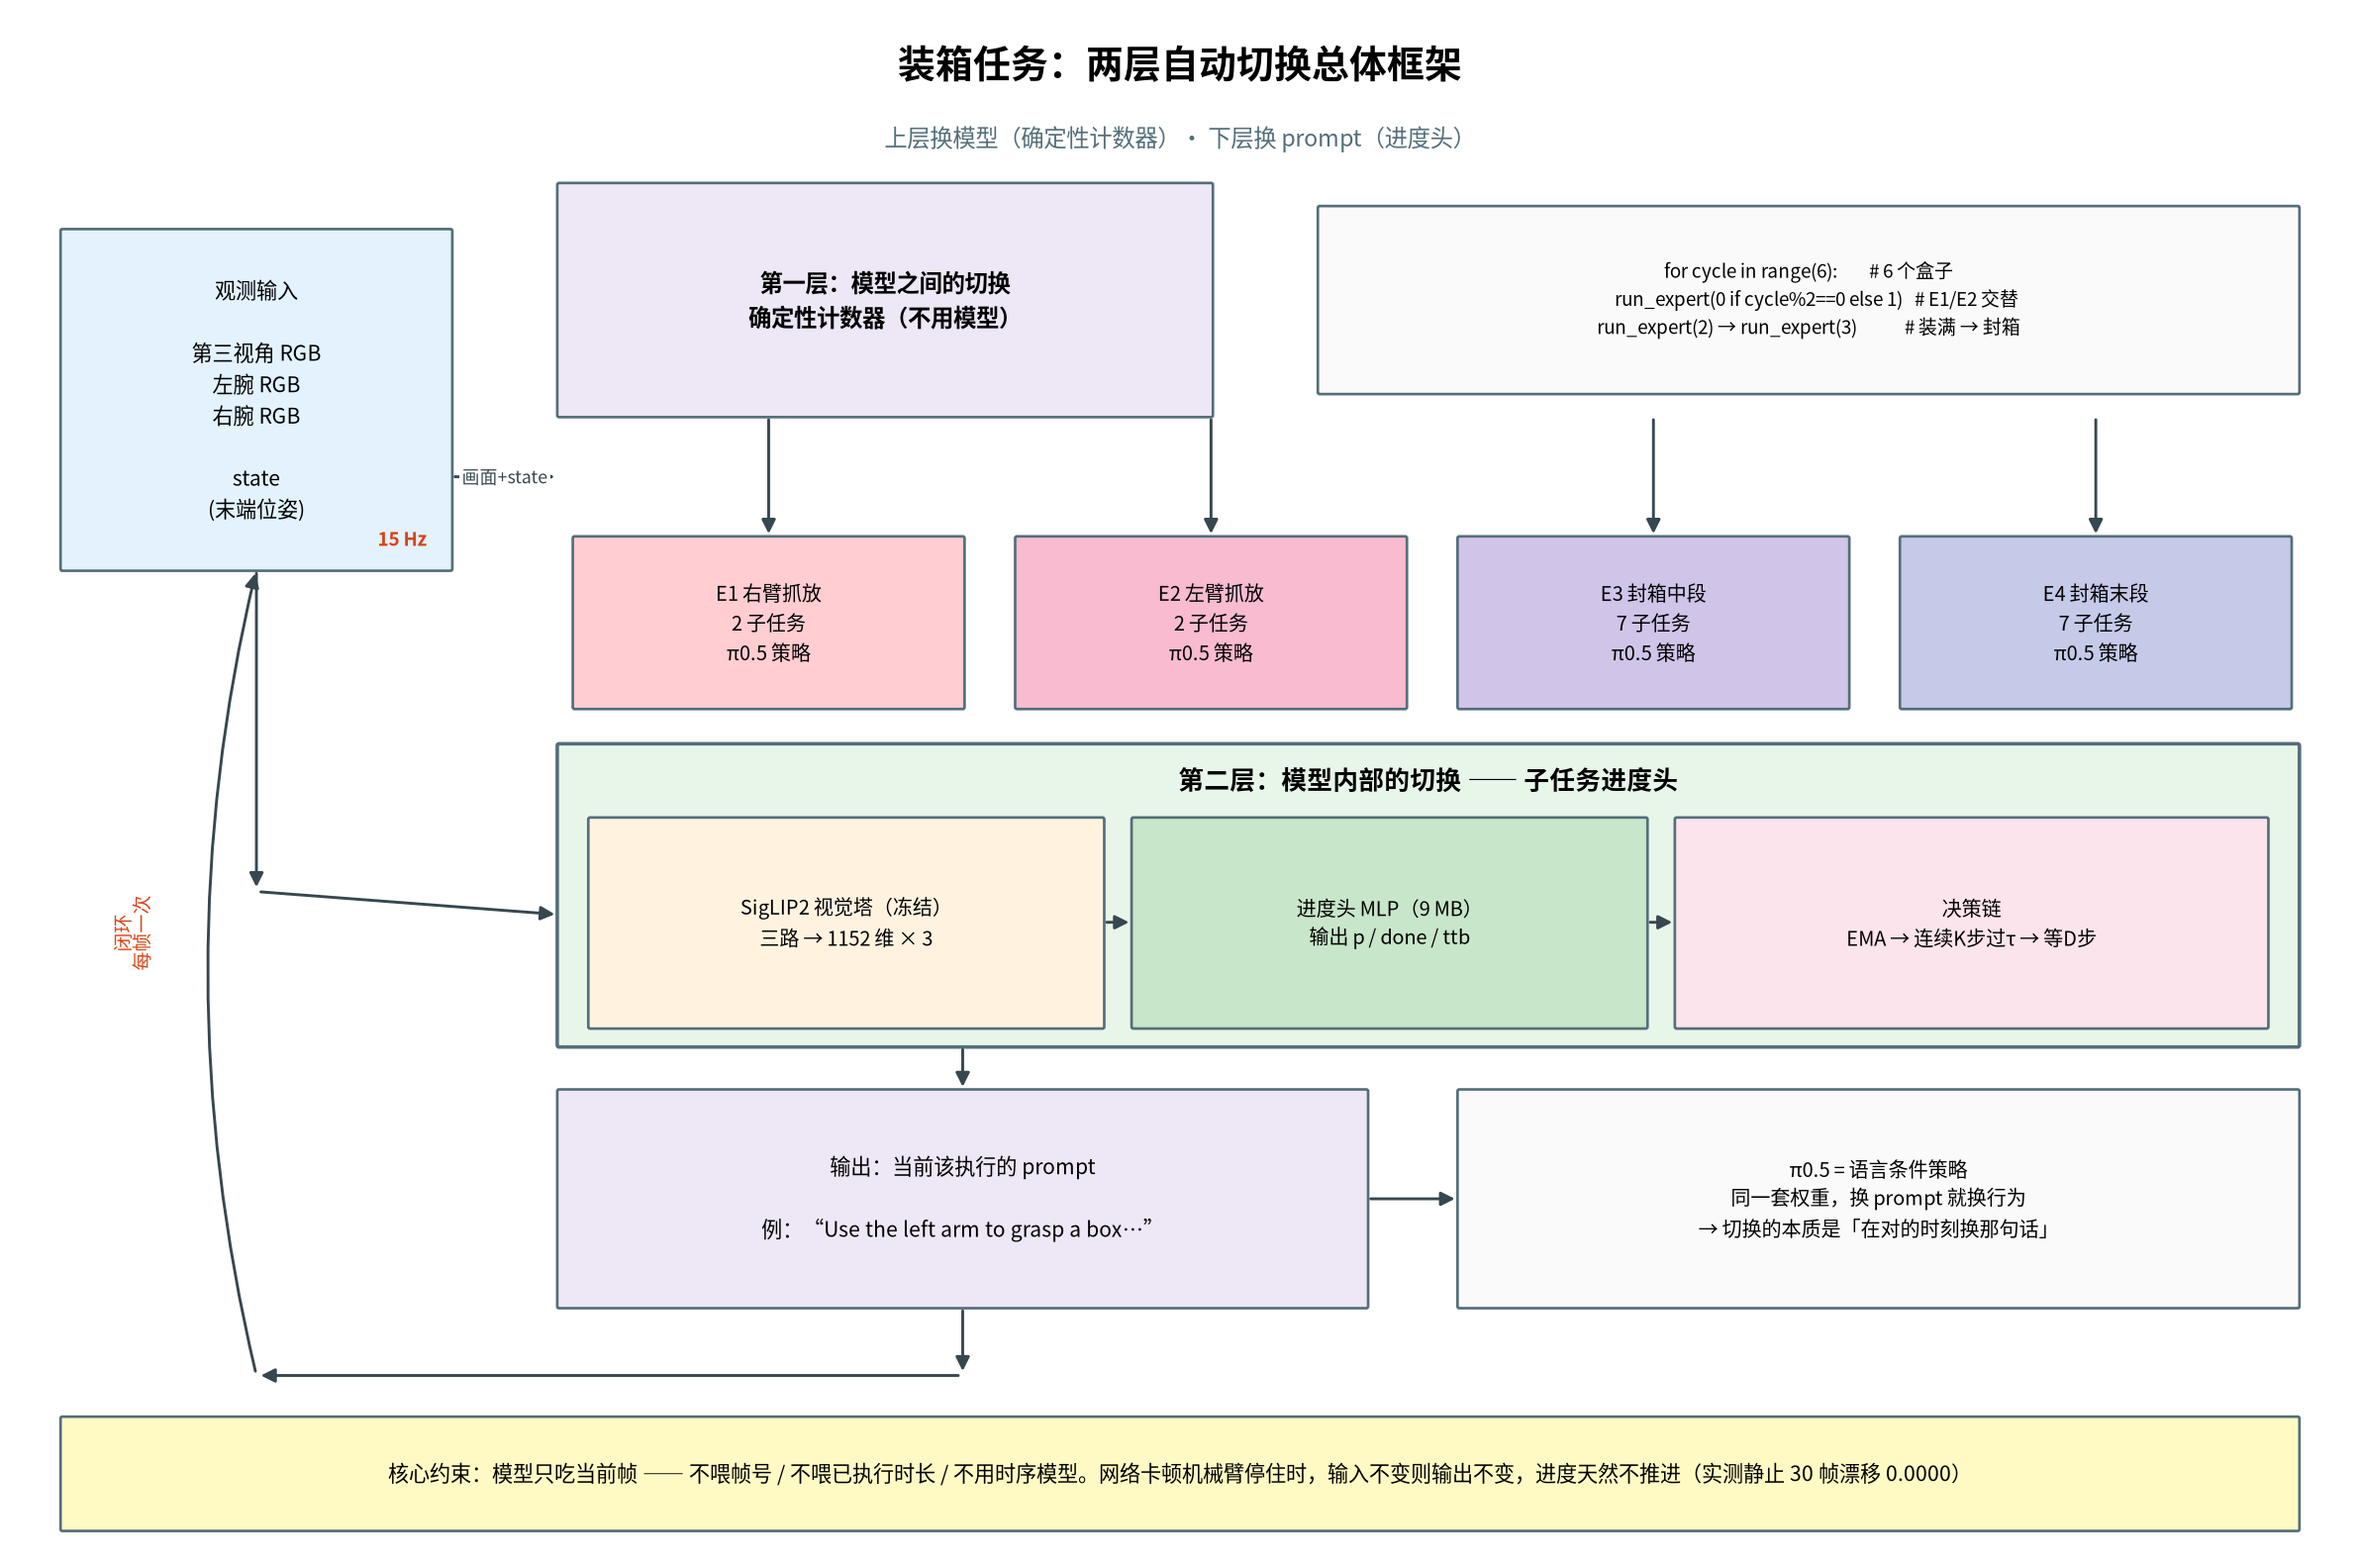
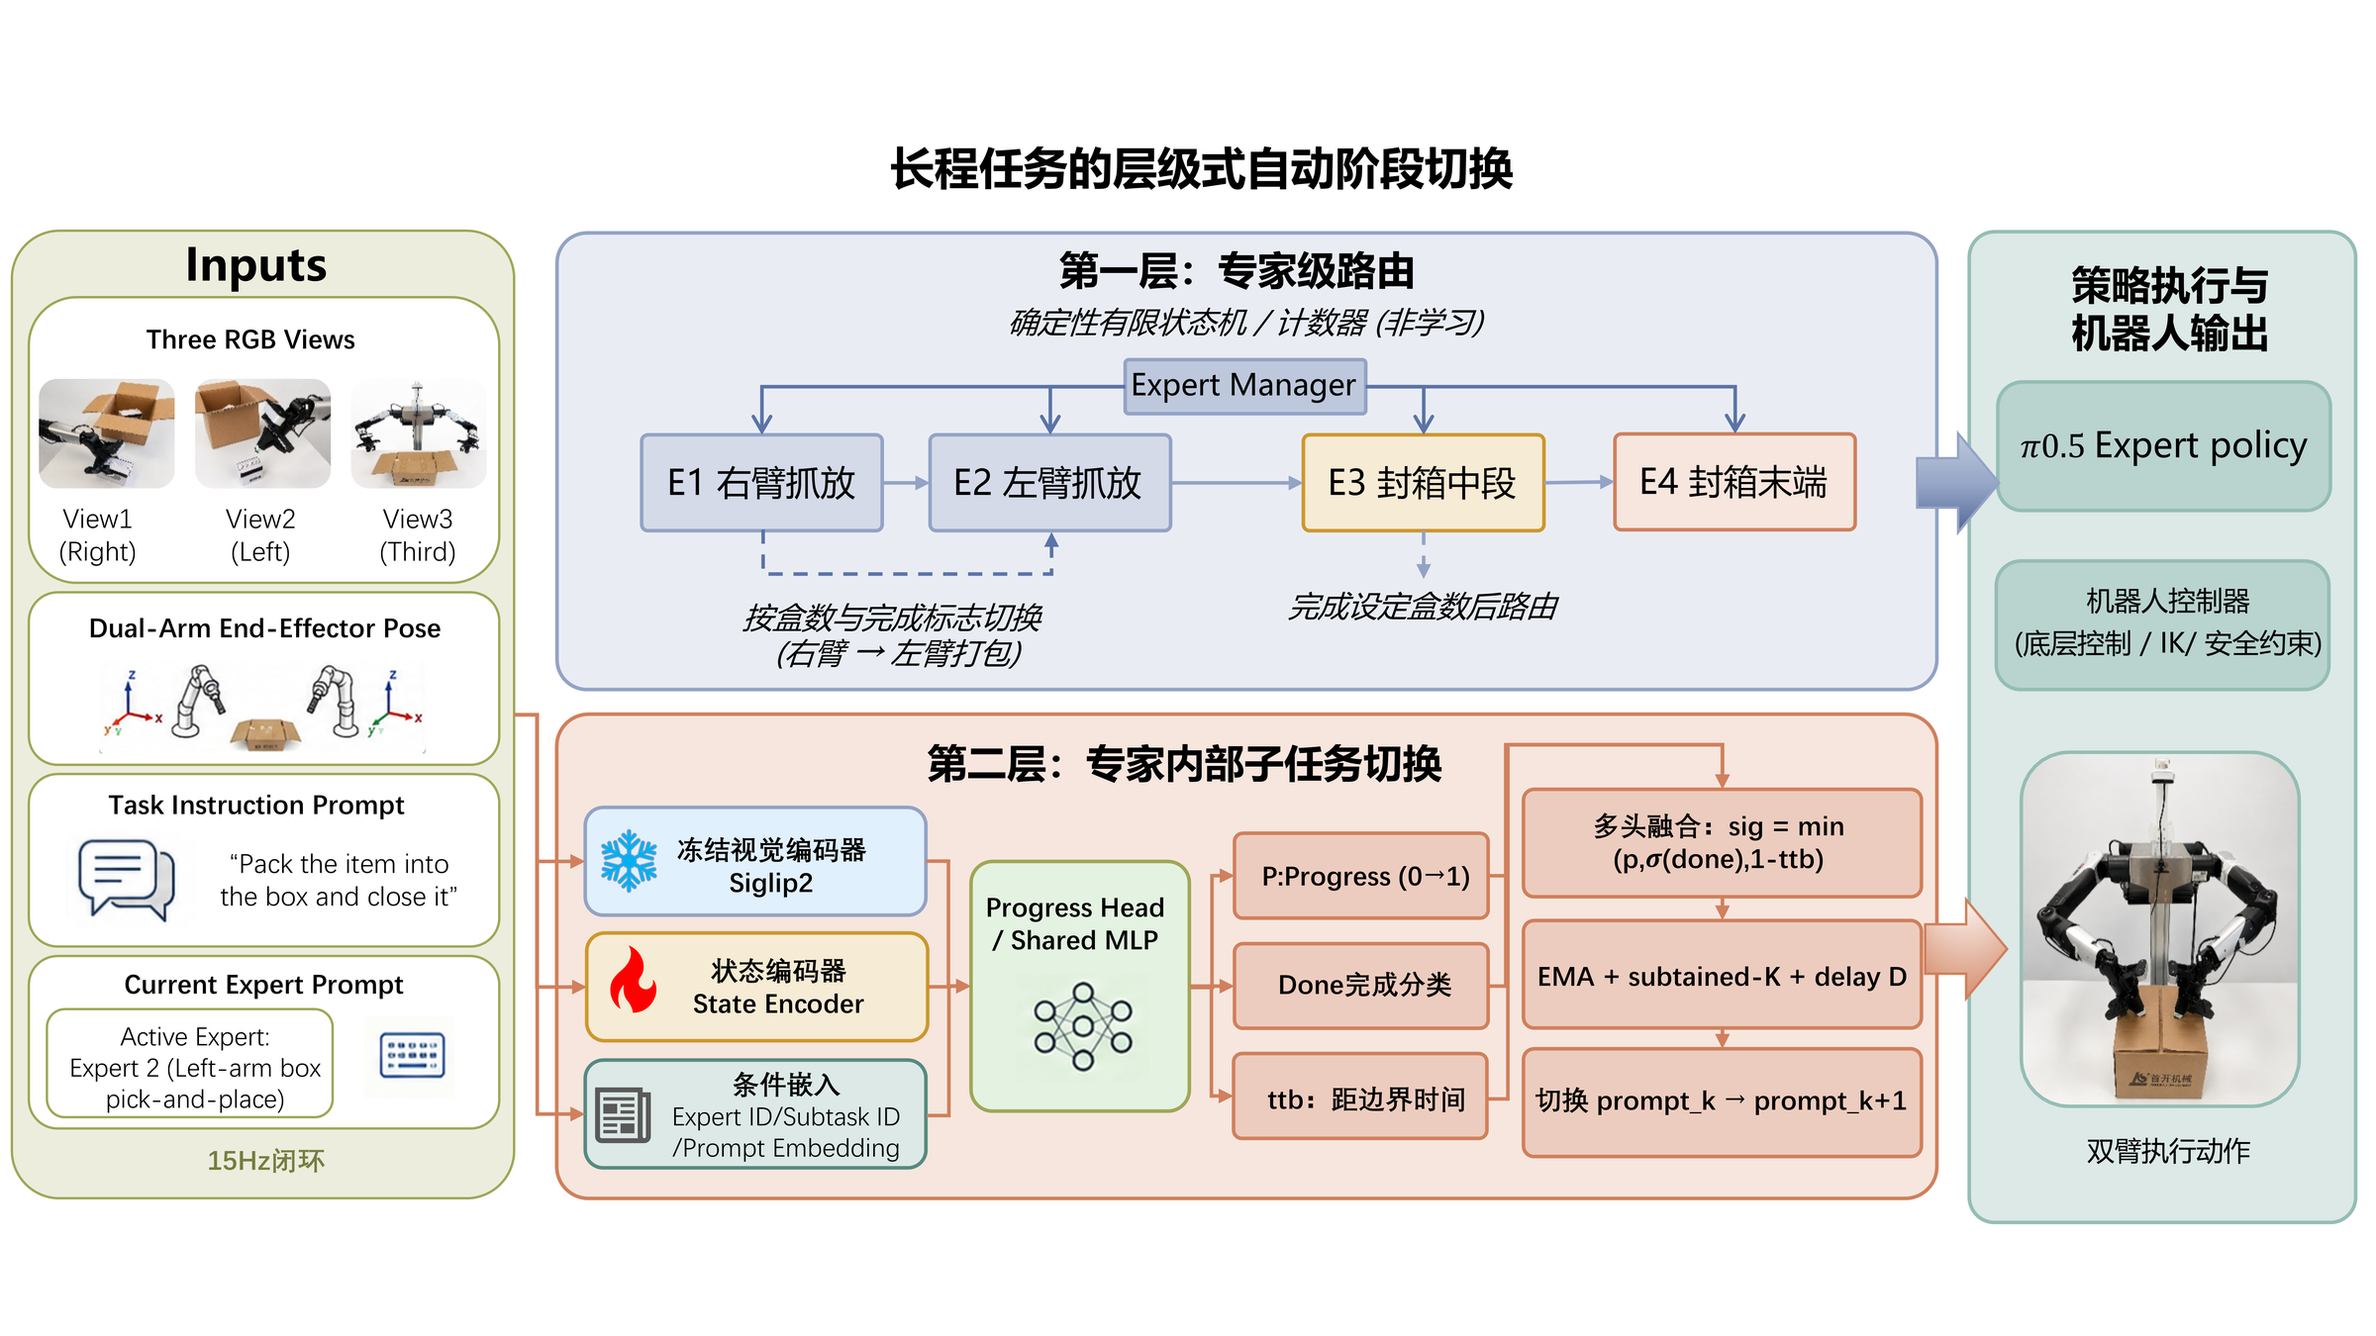
更新配图:换上手绘的框架图与决策链图
- 图 01 换成「长程任务的层级式自动阶段切换」总体框架
- 图 03 换成「自动切换阶段的决策链」
- 删掉原图 02(进度头网络结构)—— 上面两张图里都已包含 MLP 头部分,
  正文改为引用它们,不再单列一张

两张新图从 8000×4500 缩到 2400×1350(3.5MB→0.8MB / 2.2MB→0.7MB),
README 内联加载不至于太慢,点开仍看得清。

diff --git a/figures/README.md b/figures/README.md
@@ -32,7 +32,7 @@
 所以模型**只吃当前帧** —— 不喂帧号、不喂已执行时长、不用任何时序模型。
 卡住时输入不变 → 输出不变 → 进度天然不推进。
 
-📊 **图 01** 总体框架 · **图 02** 进度头结构 · **图 03** 决策链与标定
+📊 **图 01** 总体框架(两层切换) · **图 03** 决策链与标定
 
 ---
 
@@ -249,7 +249,6 @@ E3 集从第 0 帧起就是 100%。
 | 图 | 内容 |
 |---|---|
 | `01_architecture.png` | 输入输出、两层切换、四个专家、闭环 |
-| `02_network.png` | 网络结构、三个输出头、为什么要三个 |
 | `03_decision_chain.png` | 决策链、停滞门控、τ/D/兜底的标定公式 |
 | `04_policy_loss.png` | 三次策略训练的 loss（线性轴 + 对数轴） |
 | `05_accuracy_per_expert.png` | 逐专家 ≤10/≤20 帧准确率与整集跑完率 |

diff --git a/README.md b/README.md
@@ -102,9 +102,9 @@ ttb_t  = clip((e − t) / 30, 0, 1)       距边界的归一距离
 
 ### 3 · 进度头:一个小 MLP,三个输出
 
-![网络结构](figures/02_network.png)
-
 图像特征 + state + (专家 id, 子任务 id) → `p` / `done` / `ttb`。
+结构见 [§ 问题](#问题) 总体框架图的「第二层」,以及下一节
+[决策链图](#4--标定与决策链) 的 ②③ 两块。
 
 各专家的 state 语义不同(E0/E1 是 10 维单臂末端位姿,E2/E3 是 20 维双臂),
 所以**每个专家配一个独立的 state 编码器**,不做 padding 混用。
